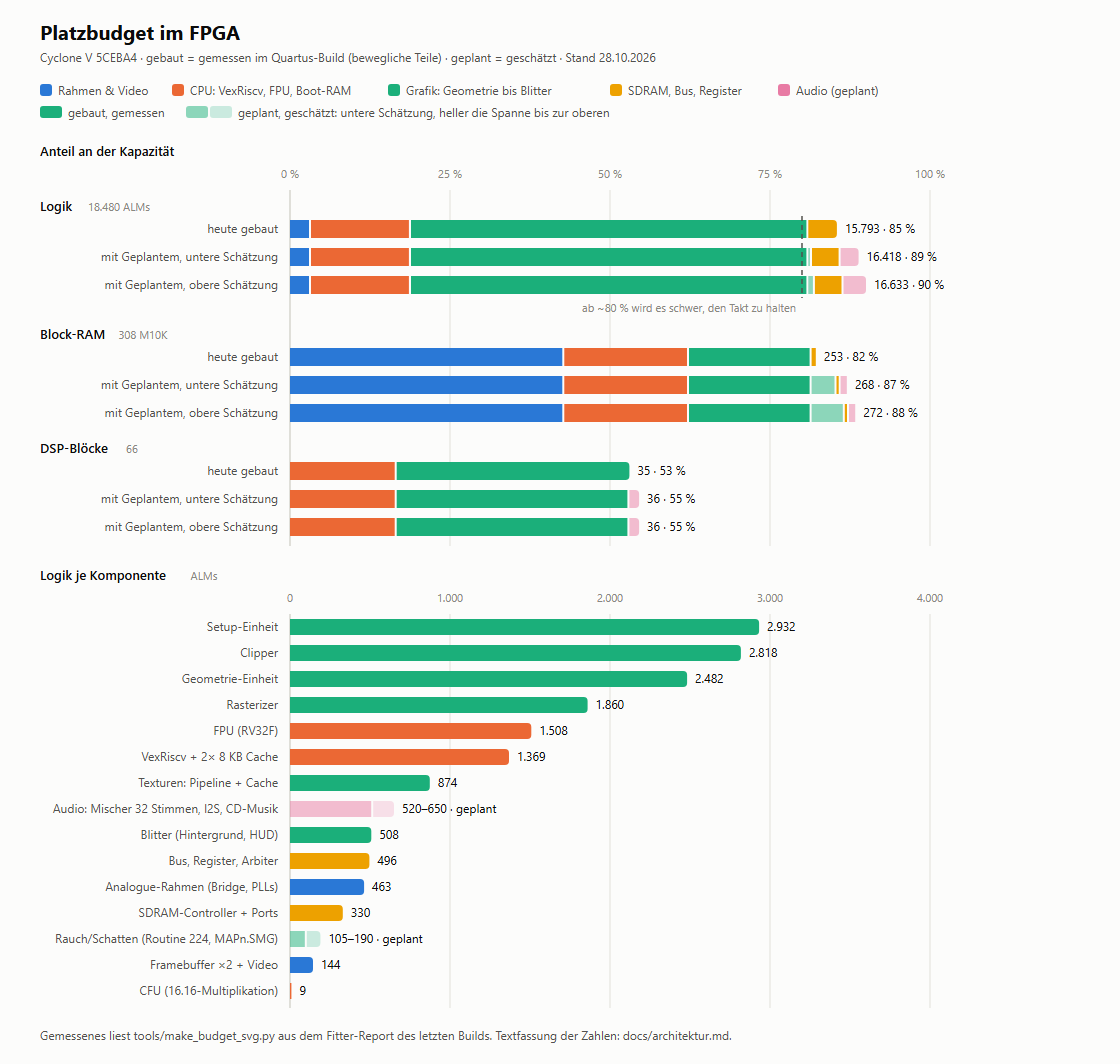
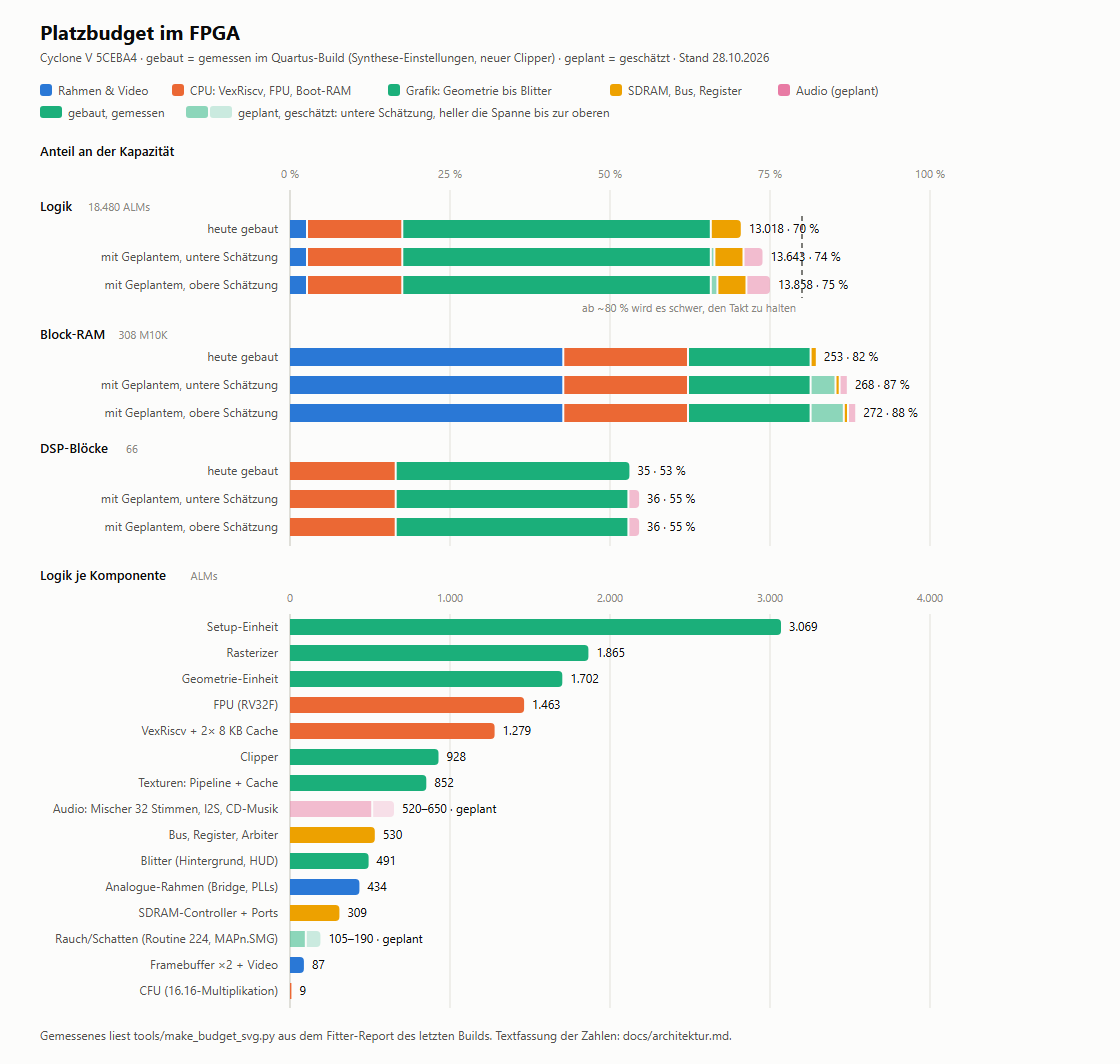
Synthesis for area: 13,018 ALMs (70 %) instead of 15,646
The project file from Analogue's template set OPTIMIZATION_TECHNIQUE SPEED
and MUX_RESTRUCTURE OFF: every wide register held in most states of a
case, and every part-select with an oversized index, became a wide mux
of its own. BALANCED with MUX_RESTRUCTURE ON gave 14,046 ALMs with better
setup slack in a full build (AUTO: 14,048); with the rewritten clipper
13,018 ALMs, setup +0.96 ns, hold +0.03 ns, the build in 6 minutes.
The simulation draws the same pixels in the same clocks.

diff --git a/tools/make_budget_svg.py b/tools/make_budget_svg.py
@@ -64,7 +64,7 @@ PLANNED = [
 ]
 TIMING_LIMIT = 0.80         # logic utilisation above which timing closure gets hard
 STAND = "28.10.2026"
-BUILD = "bewegliche Teile"
+BUILD = "Synthese-Einstellungen, neuer Clipper"
 
 # layout
 WIDTH = 1120

diff --git a/docs/architektur.md b/docs/architektur.md
@@ -71,17 +71,27 @@ braucht. 33 Dateien, eine mehr als die 32 Slots: offen, z. B. zwei Dateien in ei
 
 ## Belegung
 
-Gemessen am 2026-10-28 (Quartus-Build mit den beweglichen Teilen, Timing hält bei
-74,25 MHz: Setup +0,65 ns, Hold +0,05 ns): 15.793 von 18.480 ALMs (85 %), 253 von 308 M10K
-(82 %), 35 von 66 DSP (53 %). Von Build zu Build schwankt die Logik um einige hundert ALMs:
-Die Platzierung packt verschieden dicht, und wo das Timing knapp ist, baut der Fitter Logik
-und Register um (Physical Synthesis). So wuchs die Geometrie-Einheit mit den beweglichen
-Teilen von 1.924 auf 2.482 ALMs, obwohl nur vier Schritte und ein Bit dazukamen: Nach der
-Synthese hat sie 3.310 ALUTs und 2.536 Register, nach dem Fitter 4.310 und 2.760 (der
-vorige Build war an ihrem Cache-Pfad um 0,008 ns zu langsam). Geschätzt ist nur, was noch
-fehlt.
+Gemessen am 2026-10-28 (Quartus-Build mit den neuen Synthese-Einstellungen und dem neuen
+Clipper, Timing hält bei 74,25 MHz: Setup +0,96 ns, Hold +0,03 ns; Bauzeit 6 min): 13.018 von
+18.480 ALMs (70 %), 253 von 308 M10K (82 %), 35 von 66 DSP (53 %). Von Build zu Build
+schwankt die Logik um einige hundert ALMs: Die Platzierung packt verschieden dicht, und wo
+das Timing knapp ist, baut der Fitter Logik und Register um (Physical Synthesis).
 
-![Platzbudget im FPGA: Logik heute 85 %, mit Geplantem 89–90 %; Block-RAM heute 82 %, mit Geplantem 87–88 %; DSP heute 53 %, mit Geplantem 55 %](ressourcen.svg)
+**Weniger Logik (2026-10-28), von 15.646 auf 13.018 ALMs, ohne dass sich ein Ergebnis
+ändert:** (1) Die Projektdatei aus der Vorlage von Analogue stellte die Synthese auf Tempo:
+`OPTIMIZATION_TECHNIQUE SPEED` und `MUX_RESTRUCTURE OFF`. Ohne Umbau der Auswahlschaltungen
+wurde aus jedem breiten Register, das in vielen Zuständen eines Ablaufs nur gehalten wird, und
+aus jeder Teilauswahl mit zu breitem Index eine eigene breite Auswahl. Mit `BALANCED` und
+`MUX_RESTRUCTURE ON` sank die Logik auf 14.046 ALMs (76 %), das Timing wurde sogar besser
+(gemessen in zwei vollen Builds mit `AUTO` und `ON`). (2) Der Clipper ist neu geschrieben
+und rechnet Takt für Takt dasselbe (gegen den alten mit 90.000 Zufalls-Vielecken geprüft, in
+der Simulation 0 Pixel Unterschied und dieselben Takte): Die 4-Bit-Kantennummer wählte aus
+dem 576-Bit-Eingang wie ein Schieber über 16 Plätze (allein 1.101 ALUTs), eine Ecke wurde
+zweimal gehalten und zweimal gemessen, das Ende der Kante kommt jetzt aus dem Puffer, der
+Abstand zur Ebene ist ein Addierer mit gewählten Operanden, ein Schieber statt zweien. Jetzt
+928 statt 2.807 ALMs. Geschätzt ist nur, was noch fehlt.
+
+![Platzbudget im FPGA: Logik heute 70 %, mit Geplantem 74–75 %; Block-RAM heute 82 %, mit Geplantem 87–88 %; DSP heute 53 %, mit Geplantem 55 %](ressourcen.svg)
 
 Die Grafik erzeugt `tools/make_budget_svg.py`: die gemessenen Zeilen aus dem Fitter-Report
 (`core/src/fpga/output_files/ap_core.fit.rpt`, Tabelle „Resource Utilization by Entity“), die
@@ -90,31 +100,30 @@ nachziehen.
 
 | Komponente | ALMs | M10K | DSP |
 |---|---|---|---|
-| Analogue-Rahmen (Bridge, PLLs, Pads) | 463 | 2 | 0 |
-| Framebuffer ×2 + Video | 144 | 130 | 0 |
-| VexRiscv + 2× 8 KB Cache | 1.369 | 19 | 4 |
-| FPU (RV32F) | 1.508 | 5 | 4 |
+| Analogue-Rahmen (Bridge, PLLs, Pads) | 434 | 2 | 0 |
+| Framebuffer ×2 + Video | 87 | 130 | 0 |
+| VexRiscv + 2× 8 KB Cache | 1.279 | 19 | 4 |
+| FPU (RV32F) | 1.463 | 5 | 4 |
 | CFU (16.16-Multiplikation) | 9 | – | 3 |
 | Boot-RAM 32 KB + Protokoll | – | 36 | – |
-| Geometrie-Einheit | 2.482 | 17 | 7 |
-| Clipper | 2.818 | 6 | 2 |
-| Setup-Einheit | 2.932 | 4 | 4 |
-| Rasterizer | 1.860 | – | 7 |
-| Texturen: Pipeline + Cache | 874 | 30 | 4 |
-| Blitter (Hintergrund, HUD) | 508 | 2 | – |
-| SDRAM-Controller + Ports | 330 | 2 | – |
-| Bus, Register, Arbiter | 496 | – | – |
-| **gebaut** | **15.793 (85 %)** | **253 (82 %)** | **35 (53 %)** |
+| Geometrie-Einheit | 1.702 | 17 | 7 |
+| Clipper | 928 | 6 | 2 |
+| Setup-Einheit | 3.069 | 4 | 4 |
+| Rasterizer | 1.865 | – | 7 |
+| Texturen: Pipeline + Cache | 852 | 30 | 4 |
+| Blitter (Hintergrund, HUD) | 491 | 2 | – |
+| SDRAM-Controller + Ports | 309 | 2 | – |
+| Bus, Register, Arbiter | 530 | – | – |
+| **gebaut** | **13.018 (70 %)** | **253 (82 %)** | **35 (53 %)** |
 | geplant: Rauch/Schatten (Routine 224, `MAPn.SMG`) | 105–190 | 12–16 | – |
 | geplant: Audio (Mischer mit 32 Stimmen, I2S, CD-Musik) | 520–650 | 3 | 1 |
-| **mit Geplantem** | **16.418–16.633 (89–90 %)** | **268–272 (87–88 %)** | **36 (55 %)** |
+| **mit Geplantem** | **13.643–13.858 (74–75 %)** | **268–272 (87–88 %)** | **36 (55 %)** |
 
 Knapp wird die Logik: ab etwa 80 % Belegung wird es auf dem Cyclone V schwer, die
 Taktfrequenz zu halten. Das zeigt sich beim Bauen (Timing-Analyse, `tools/build.sh` meldet es
 und probiert weitere Fitter-Seeds), nicht als Instabilität auf dem Pocket, solange das Timing
-hält. Die größten Posten sind Setup-Einheit und Clipper (zusammen 5.750 ALMs; nach der
-Synthese die Setup-Einheit 4.464 ALUTs und 4.106 Register, der Clipper 3.899 ALUTs und 1.263
-Register). Sie rechnen bit-genau wie das C-Modell in Festkomma, deshalb breit: eine Ecke hat
+hält. Der größte Posten ist die Setup-Einheit (3.069 ALMs; bis zum neuen Clipper zusammen
+mit ihm 5.750). Sie rechnet bit-genau wie das C-Modell in Festkomma, deshalb breit: eine Ecke hat
 144 Bit, ein Polygon 576, Zwischenwerte und Produkte bis 65 Bit. Es sind drei Rechenwerke
 hintereinander, damit sie gleichzeitig arbeiten (Clipper, Ecken, Dreiecke), jedes mit einem
 Multiplizierer und einem festen Ablauf: Vor jedem Multiplizierer sitzt eine Auswahl, beim
@@ -123,8 +132,8 @@ Zwischenwerte (rund 1.100 Bit), die wieder ausgewählt werden. Dazu kommen varia
 für das Normieren vor der Kehrwerttabelle und das Skalieren der Ergebnisse (die
 Setup-Einheit hat acht, 32 bis 65 Bit breit, der Clipper drei, je einige hundert ALUTs), und
 Produkte breiter als ein DSP-Block (47 × 18, 38 × 18) addieren ihre Teilprodukte in Logik.
-Dort ist am meisten zu holen, falls Audio nicht mehr passt (Zwischenwerte in Block-RAM statt
-Registern, Schieber nur so breit wie nötig; das C-Modell muss jede Änderung mitmachen).
+Dort ist noch am meisten zu holen (Zwischenwerte in Block-RAM statt Registern, Schieber
+nur so breit wie nötig; das C-Modell muss jede Änderung mitmachen).
 Einen Tiefenpuffer gibt es nicht, siehe „Entschieden“.
 
 VexRiscv und FPU stammen aus einer Synthese der CPU allein für den 5CEBA4F23C8 mit Quartus
